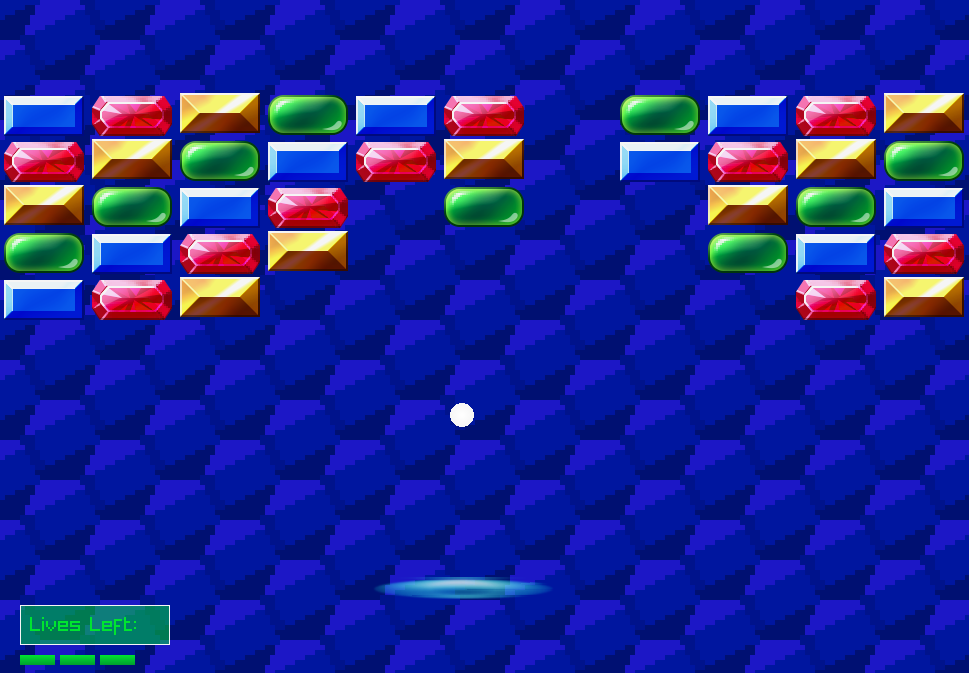
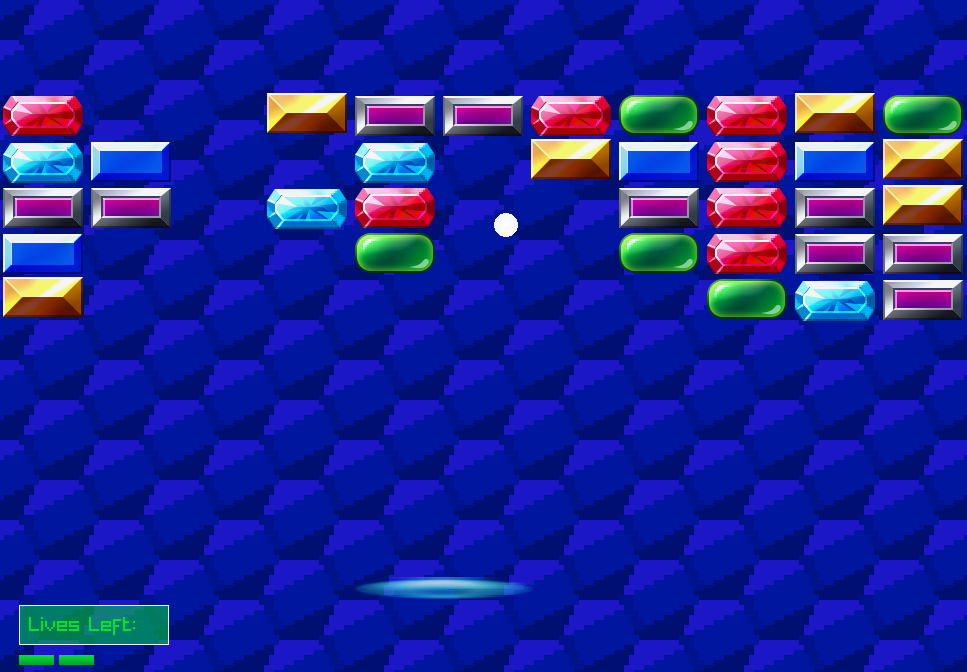
Randomize brick colors and update screenshot

diff --git a/src/sprite_arkanoid.cpp b/src/sprite_arkanoid.cpp
@@ -20,7 +20,7 @@
 #include <cmath>
 #include <vector>
 
-const int PLAYER_MAX_LIFE = 5;
+const int PLAYER_MAX_LIFE = 3;
 const int BRICK_ROWS = 5;
 const int BRICK_COLUMNS = 11;
 const int SCREEN_WIDTH = 970;
@@ -28,18 +28,20 @@ const int SCREEN_HEIGHT = 675;
 const int PLAYER_SPEED = 8;
 const int BALL_SIZE = 12;
 const int BALL_SPEED = 5;
-const raylib::Color BG_COLOR{3, 1, 146};
+const int BRICK_WIDTH = 88, BRICK_HEIGHT = 46;
+const std::vector<raylib::Rectangle> BRICK_TEXTURE_POOL{
+    raylib::Rectangle{0, 0, BRICK_WIDTH, BRICK_HEIGHT},
+    raylib::Rectangle{88, 96, BRICK_WIDTH, BRICK_HEIGHT},
+    raylib::Rectangle{264, 51, BRICK_WIDTH, BRICK_HEIGHT},
+    raylib::Rectangle{264, 95, BRICK_WIDTH, BRICK_HEIGHT},
+    raylib::Rectangle{440, 144, BRICK_WIDTH, BRICK_HEIGHT},
+    raylib::Rectangle{176, 145, BRICK_WIDTH, BRICK_HEIGHT},
+};
 
 raylib::Texture2D backgroundTexture;
-raylib::Texture2D bricks;
-raylib::Texture2D player_bar;
-const int brickWidth = 88, brickHeight = 46;
-const std::vector<raylib::Rectangle> BRICK_VECTOR{
-    raylib::Rectangle{0, 0, brickWidth, brickHeight},
-    raylib::Rectangle{88, 96, brickWidth, brickHeight},
-    raylib::Rectangle{264, 51, brickWidth, brickHeight},
-    raylib::Rectangle{176, 145, brickWidth, brickHeight},
-};
+raylib::Texture2D bricksTexture;
+raylib::Texture2D playerTexture;
+std::vector<raylib::Rectangle> brickTextures(BRICK_ROWS * BRICK_COLUMNS);
 
 struct Player
 {
@@ -115,13 +117,13 @@ int main()
 
 void InitGame()
 {
-  brickSize = raylib::Vector2{brickWidth, brickHeight};
+  brickSize = raylib::Vector2{BRICK_WIDTH, BRICK_HEIGHT};
 
   player.Init(raylib::Vector2{SCREEN_WIDTH / 2, SCREEN_HEIGHT * 7 / 8}, raylib::Vector2{228, 25}, PLAYER_MAX_LIFE);
 
   ball.Init(raylib::Vector2{SCREEN_WIDTH / 2, SCREEN_HEIGHT * 7 / 8 - 30}, (raylib::Vector2){0, 0}, BALL_SIZE, false);
 
-  // Initialize bricks positions
+  // Initialize bricks
   int marginTop = brickSize.GetY() * 2;
 
   for (int i = 0; i < BRICK_ROWS; ++i)
@@ -132,10 +134,15 @@ void InitGame()
     }
   }
 
+  for (int i = 0; i < BRICK_ROWS * BRICK_COLUMNS; ++i)
+  {
+    brickTextures[i] = BRICK_TEXTURE_POOL[::GetRandomValue(0, (int)BRICK_TEXTURE_POOL.size()-1)];
+  }
+
   // Load textures
   backgroundTexture = ::LoadTexture("../images/hexagon_pattern.png");
-  bricks = ::LoadTexture("../images/bricks.png");
-  player_bar = ::LoadTexture("../images/player_bar.png");
+  bricksTexture = ::LoadTexture("../images/bricks.png");
+  playerTexture = ::LoadTexture("../images/player_bar.png");
 }
 
 // Update game variables (one frame)
@@ -330,39 +337,29 @@ void DrawGame()
     }
 
     // Draw player bar
-    player_bar.Draw(raylib::Rectangle{0, 0, 228, 25},
+    playerTexture.Draw(raylib::Rectangle{0, 0, 228, 25},
                     raylib::Vector2{player.position.GetX() - player.size.GetX() / 2,
                                     player.position.GetY() - player.size.GetY() / 2},
                     raylib::Color::RayWhite);
-    // ::DrawRectangleGradientV(player.position.GetX() - player.size.GetX() / 2,
-    //                          player.position.GetY() - player.size.GetY() / 2, player.size.GetX(), player.size.GetY(),
-    //                          raylib::Color::LightGray, raylib::Color::DarkGray);
 
     // Draw ball
     ::DrawCircleGradient(ball.position.GetX(), ball.position.GetY(), ball.radius, raylib::Color::White,
                          raylib::Color::RayWhite);
 
     // Draw bricks
+    int k = 0;
     for (int i = 0; i < BRICK_ROWS; ++i)
     {
       for (int j = 0; j < BRICK_COLUMNS; ++j)
       {
         if (brick[i][j].shouldRender)
         {
-          bricks.Draw(BRICK_VECTOR[(i + j) % (int)BRICK_VECTOR.size()],
+          bricksTexture.Draw(brickTextures[k],
                       raylib::Vector2{brick[i][j].position.GetX() - brickSize.GetX() / 2,
                                       brick[i][j].position.GetY() - brickSize.GetY() / 2},
                       raylib::Color::RayWhite);
-
-          // ::DrawRectangleGradientH(brick[i][j].position.GetX() - brickSize.GetX() / 2,
-          //                          brick[i][j].position.GetY() - brickSize.GetY() / 2, brickSize.GetX(),
-          //                          brickSize.GetY(), COLOR_VECTOR[(i + j) % (int)COLOR_VECTOR.size()],
-          //                          TINT_VECTOR[(i + j) % (int)TINT_VECTOR.size()]);
-          // ::DrawRectangleLinesEx(raylib::Rectangle{brick[i][j].position.GetX() - brickSize.GetX() / 2,
-          //                                          brick[i][j].position.GetY() - brickSize.GetY() / 2,
-          //                                          brickSize.GetX(), brickSize.GetY()},
-          //                        3, raylib::Color::Black);
         }
+        ++k;
       }
     }
 
